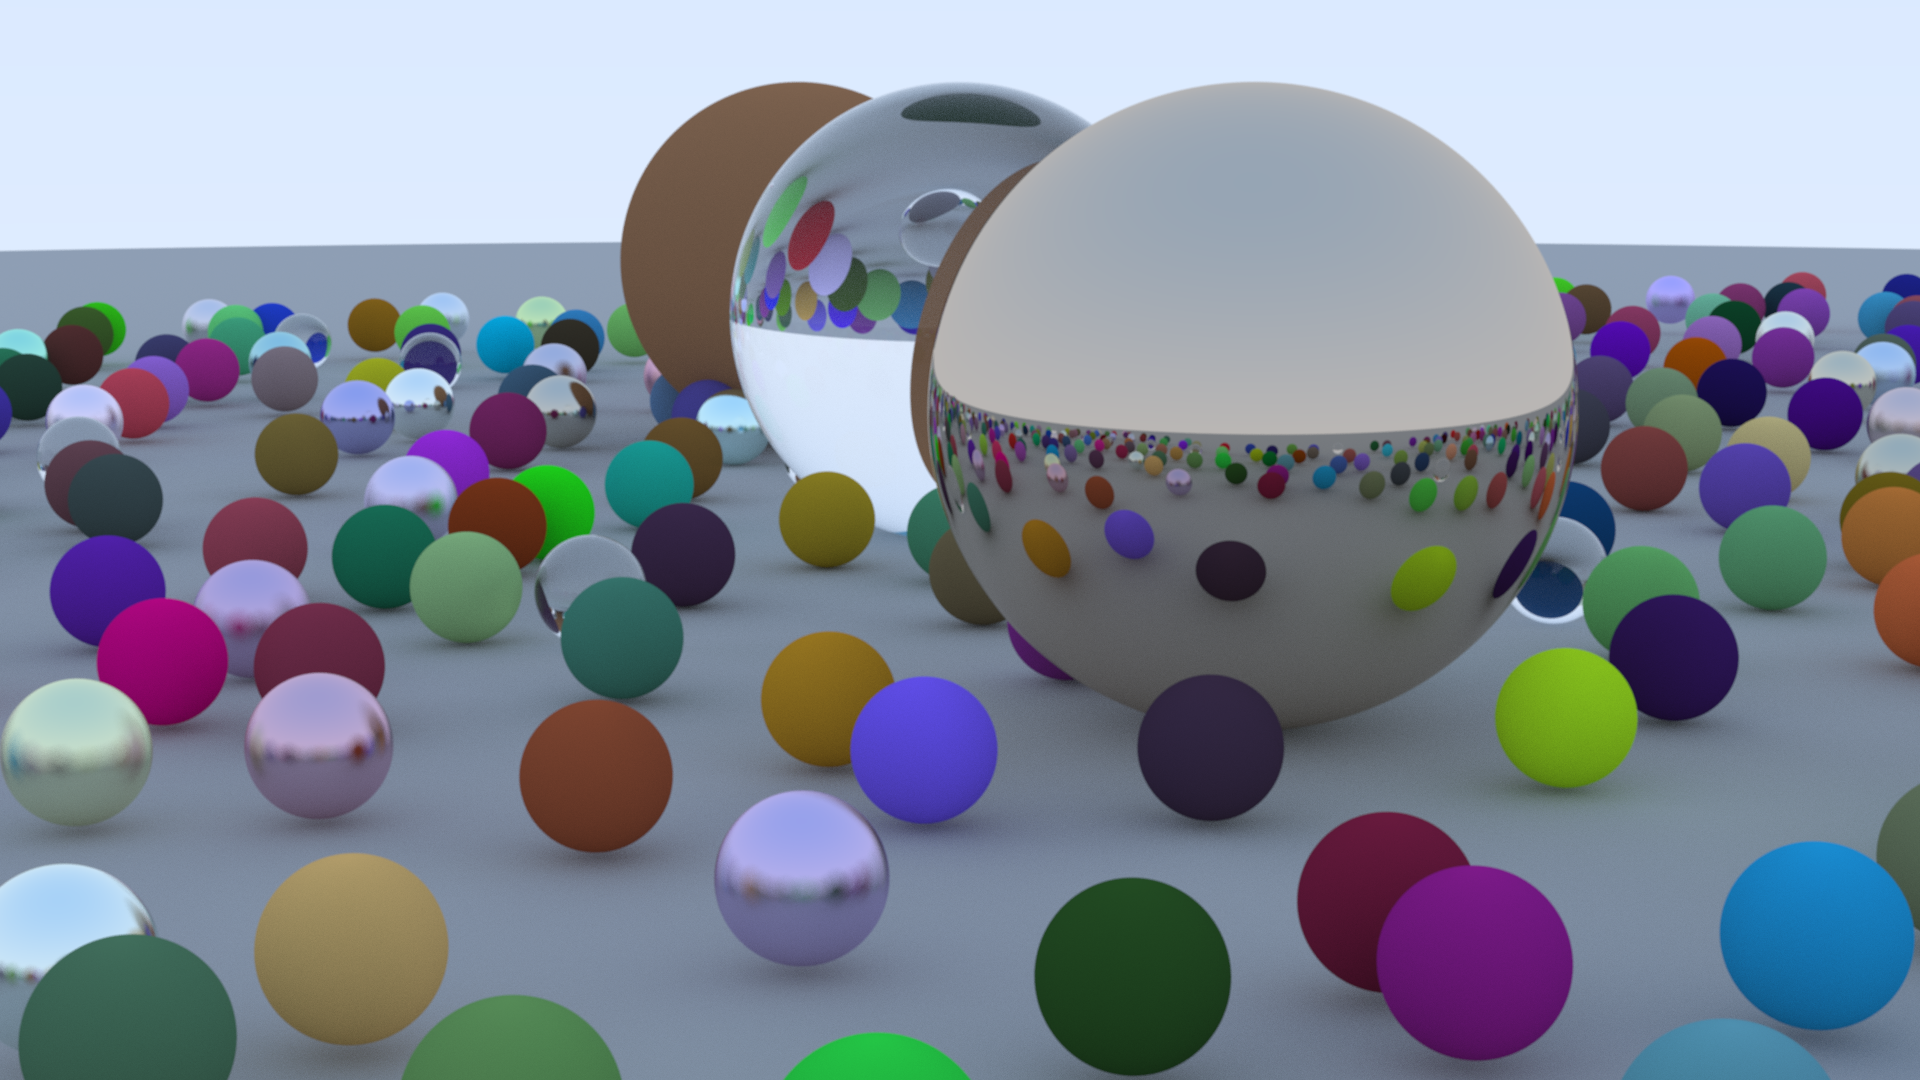
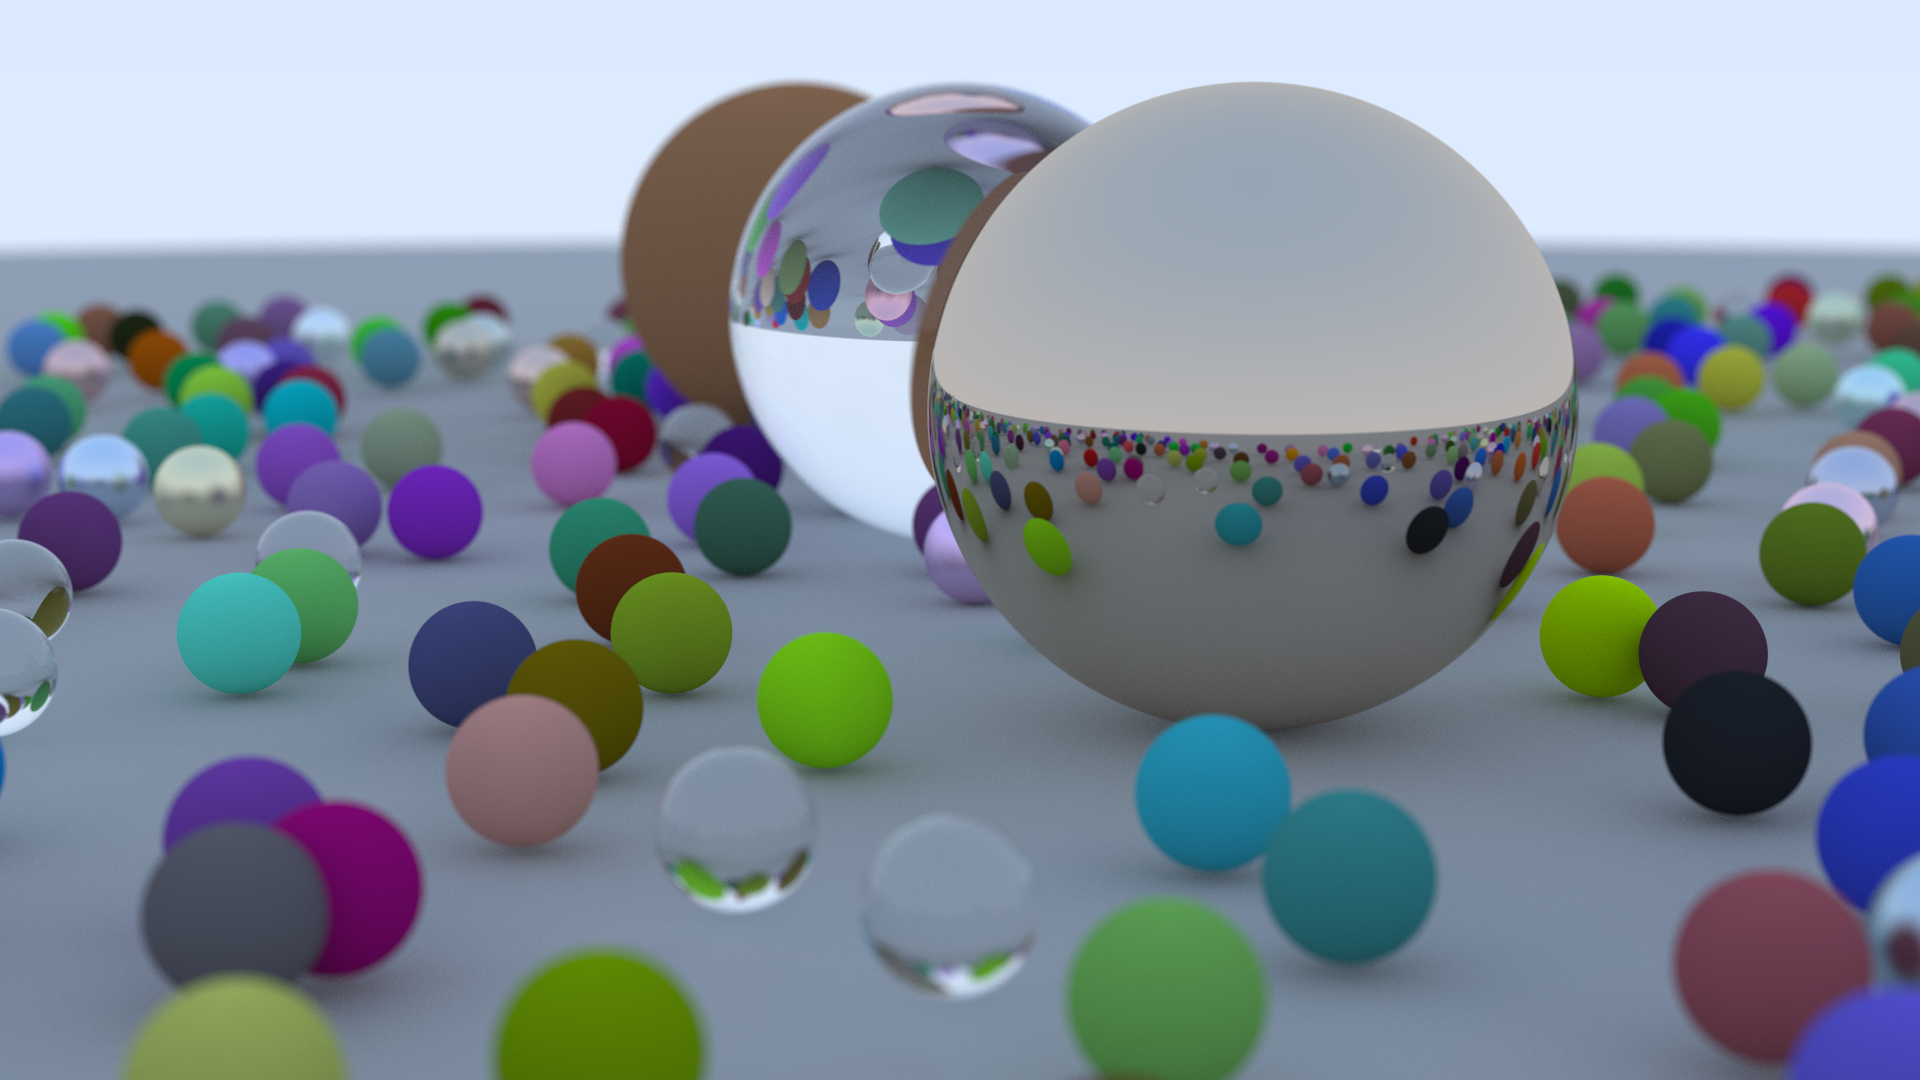
DoF bug fix, other cleanup

diff --git a/src/tga.rs b/src/tga.rs
@@ -4,15 +4,13 @@ use std::mem;
 use std::path::PathBuf;
 use std::slice;
 
+
+// https://gist.github.com/jonvaldes/607fbc380f816d205afb#file-test-rs-L16
 unsafe fn struct_to_u8_slice<T>(s: &T) -> &[u8] {
     let data_ptr: *const u8 = mem::transmute(s);
     slice::from_raw_parts(data_ptr, mem::size_of::<T>())
 }
 
-unsafe fn slice_to_u8_slice<T>(s: &[T]) -> &[u8] {
-    let data_ptr: *const u8 = mem::transmute(&s[0]);
-    slice::from_raw_parts(data_ptr, mem::size_of::<T>() * s.len())
-}
 
 #[repr(C, packed)]
 #[derive(Default)]

diff --git a/src/camera.rs b/src/camera.rs
@@ -49,7 +49,7 @@ impl Camera {
         let offset: Vec3 = self.u * rd.x + self.v * rd.y;
         
         Ray{
-            origin: self.origin,
+            origin: self.origin + offset,
             direction: self.lower_left_corner + s * self.horizontal + t * self.vertical - self.origin - offset,
         }
     }

diff --git a/src/main.rs b/src/main.rs
@@ -83,7 +83,7 @@ fn main() -> Result<(), std::io::Error> {
         Vec3::up(), 
         20.0, 
         aspect_ratio,
-        0.01,
+        0.1,
         10.0
     );
 
